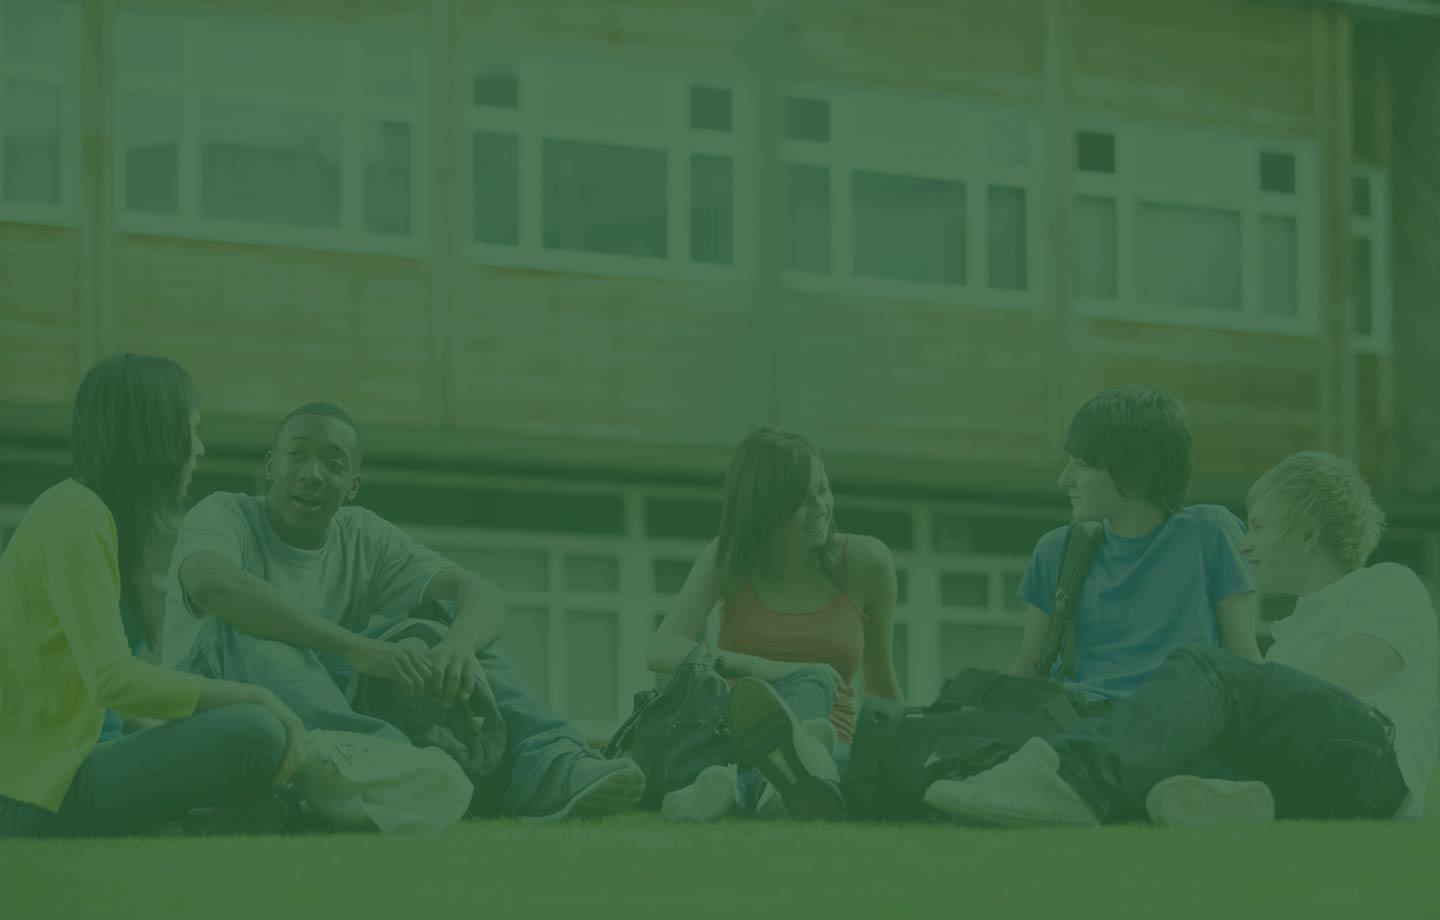
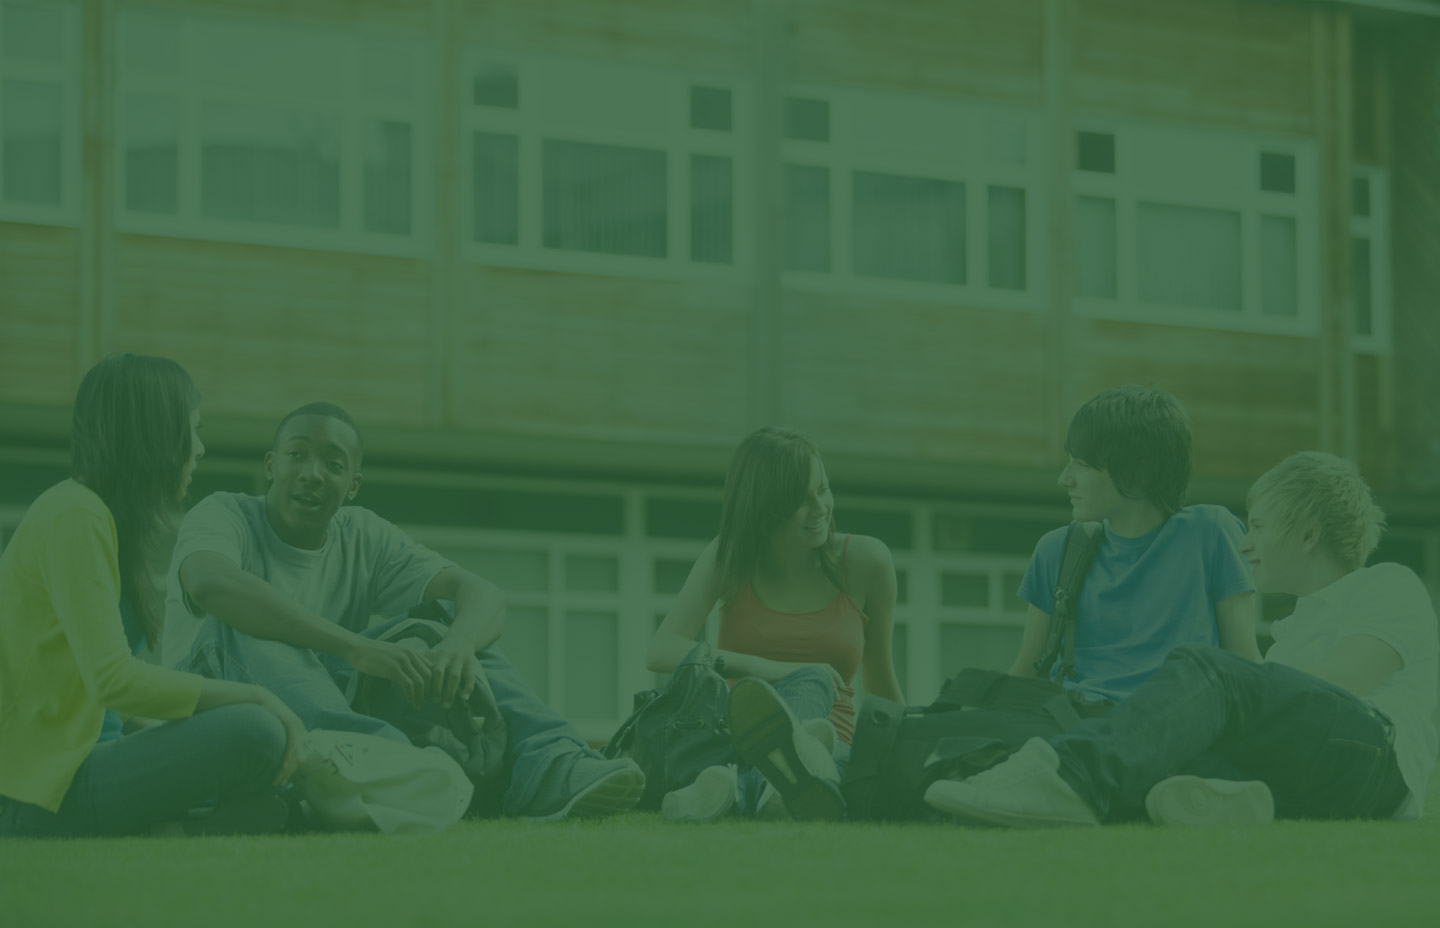
edited styles for start page

diff --git a/EC/Content/style2.css b/EC/Content/style2.css
@@ -49,6 +49,9 @@ html, body {
     min-height: 700px;
     background-image: url('/Content/img/website-report.jpg');
 }
+#wrap.wrap_cc {    
+    background-image: url('/Content/img/website-report-cc.jpg');
+}
 #header {
     background-color: rgba(255, 255, 255, 0.7);
     width: 100%;
@@ -94,6 +97,7 @@ html, body {
     font-family: 'Open Sans', arial, verdana, sans-serif;
     font-weight: 700;
     cursor: pointer;
+    transition: 1s;
 }
 .bigButton a {
     text-decoration: none;
@@ -178,6 +182,7 @@ html, body {
     cursor: pointer;
     font-weight: 700;
     text-decoration: none;
+    transition: 1s;
 }
 
 .login a:hover, .login a:focus {
@@ -185,21 +190,21 @@ html, body {
     text-decoration: underline;
 }
 
-.login:active{
+.login a:active{
     text-decoration: none;
     color: #345c60;
 }
 
-#header_cc .login {
+#header_cc .login a {
     color: #4da456;
 }
 
-#header_cc .login:hover, #header_cc .login:focus {
+#header_cc .login a:hover, #header_cc .login a:focus {
     color: #4da456;
     text-decoration: underline;
 }
 
-#header_cc .login:active {
+#header_cc .login a:active {
     text-decoration: none;
     color: #2e7037;
 }
@@ -300,11 +305,23 @@ html, body {
 }
 
 #bottomBody_cc {
-    height: 420px;
     background-color: transparent;
+    height: 420px;
+    text-align: center;
+}
+#bottomBody_cc .itemBlock {
+    transition: 1s;
+    width: 33%;
+}
+#bottomBody_cc .textBlock {
+    color: #9ab7b7;
 }
 #bottomBody_cc .fourthTitle, #bottomBody_cc .itemBlock:nth-child(2){
     display: none;
+}
+
+.wrap_cc .fourthTitle {
+    margin-bottom: 100px;
 }
 /*#footer {
     background-color:rgba(255, 255, 255, 0.7);
